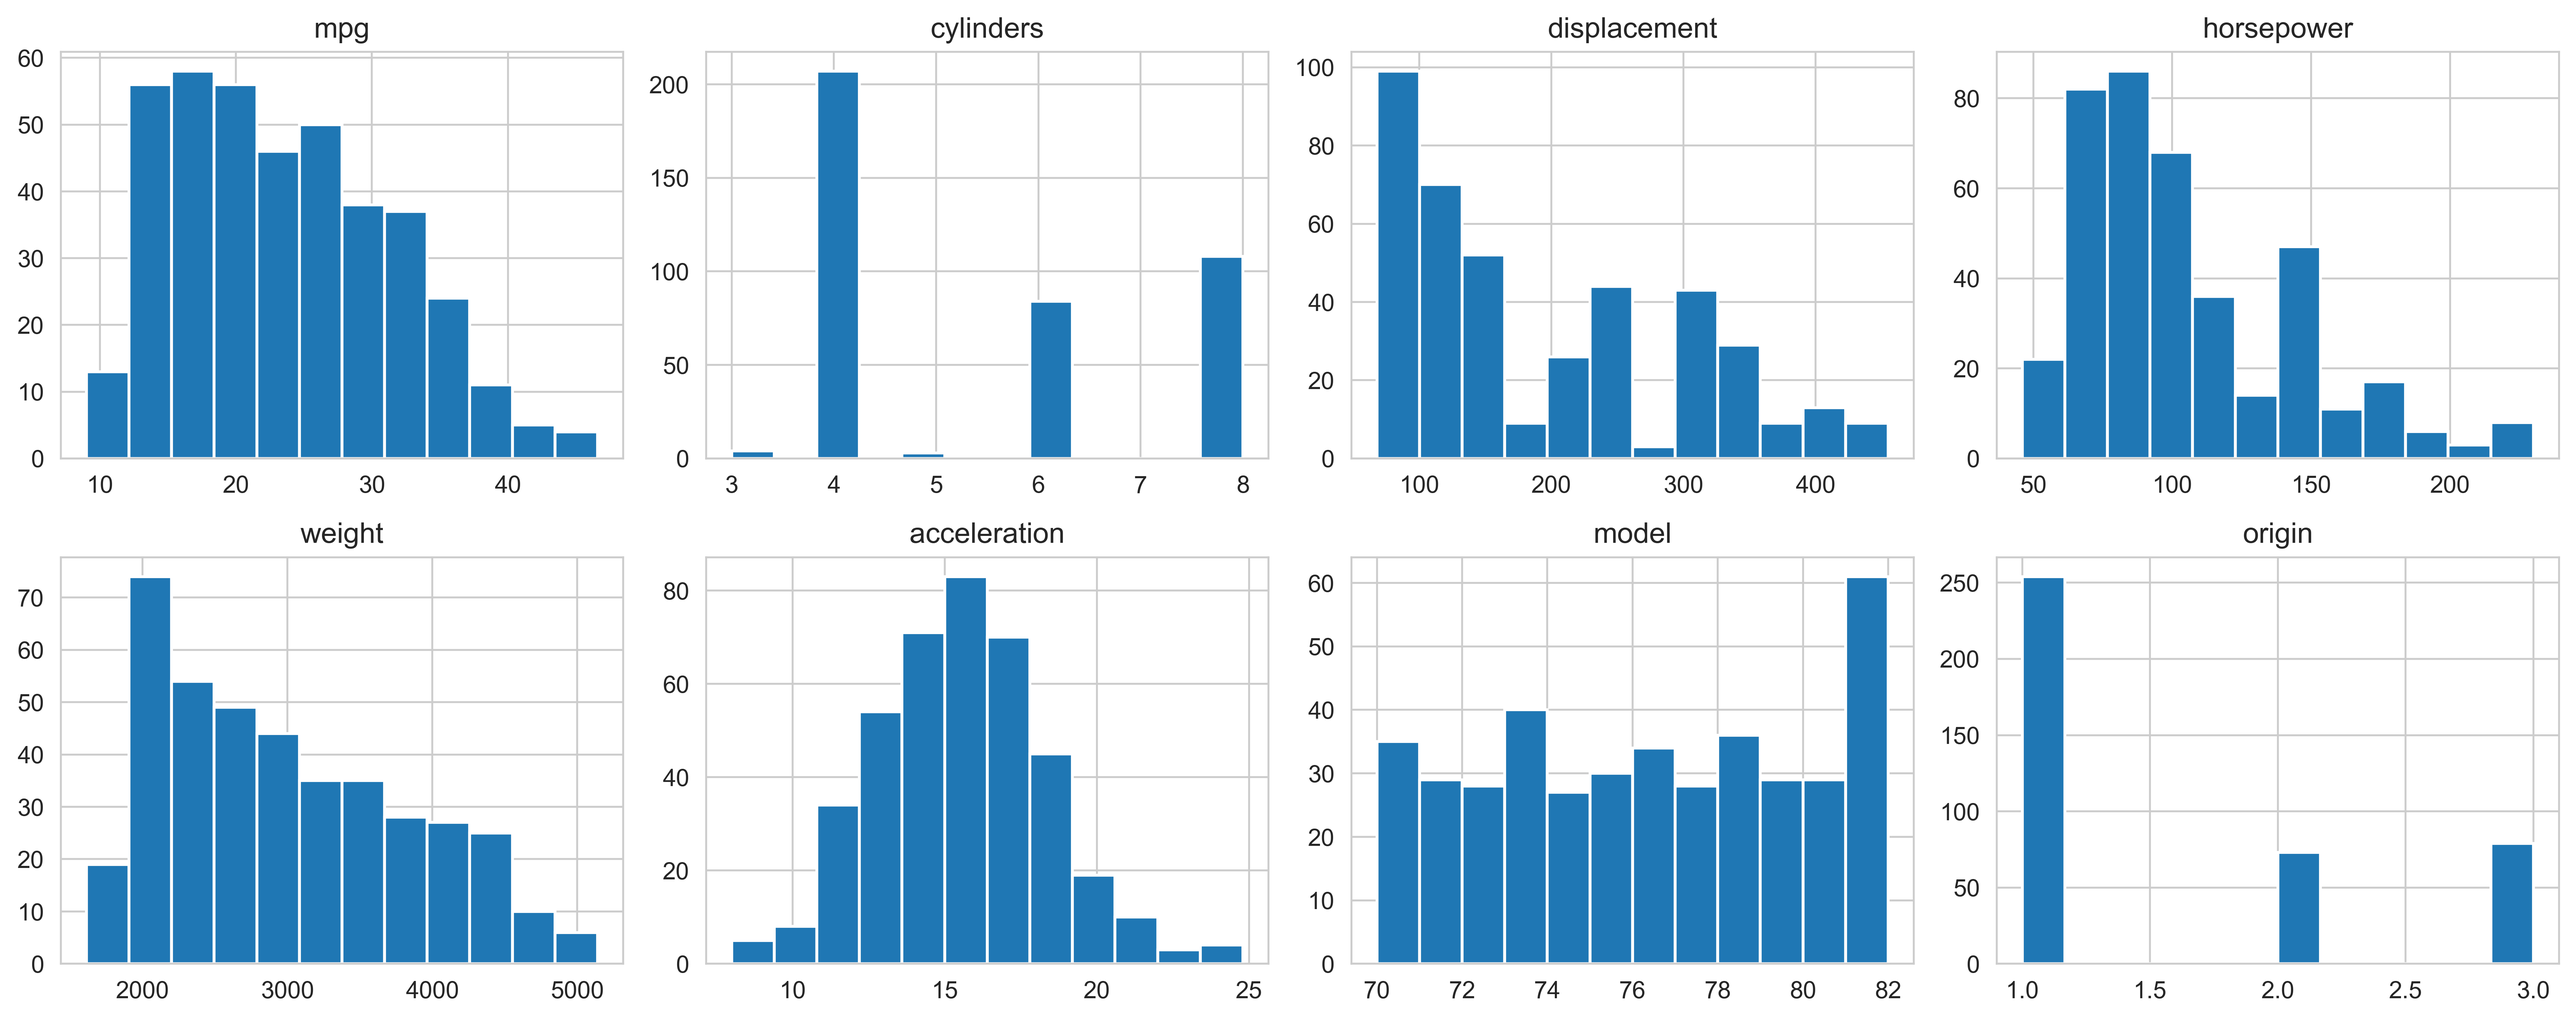
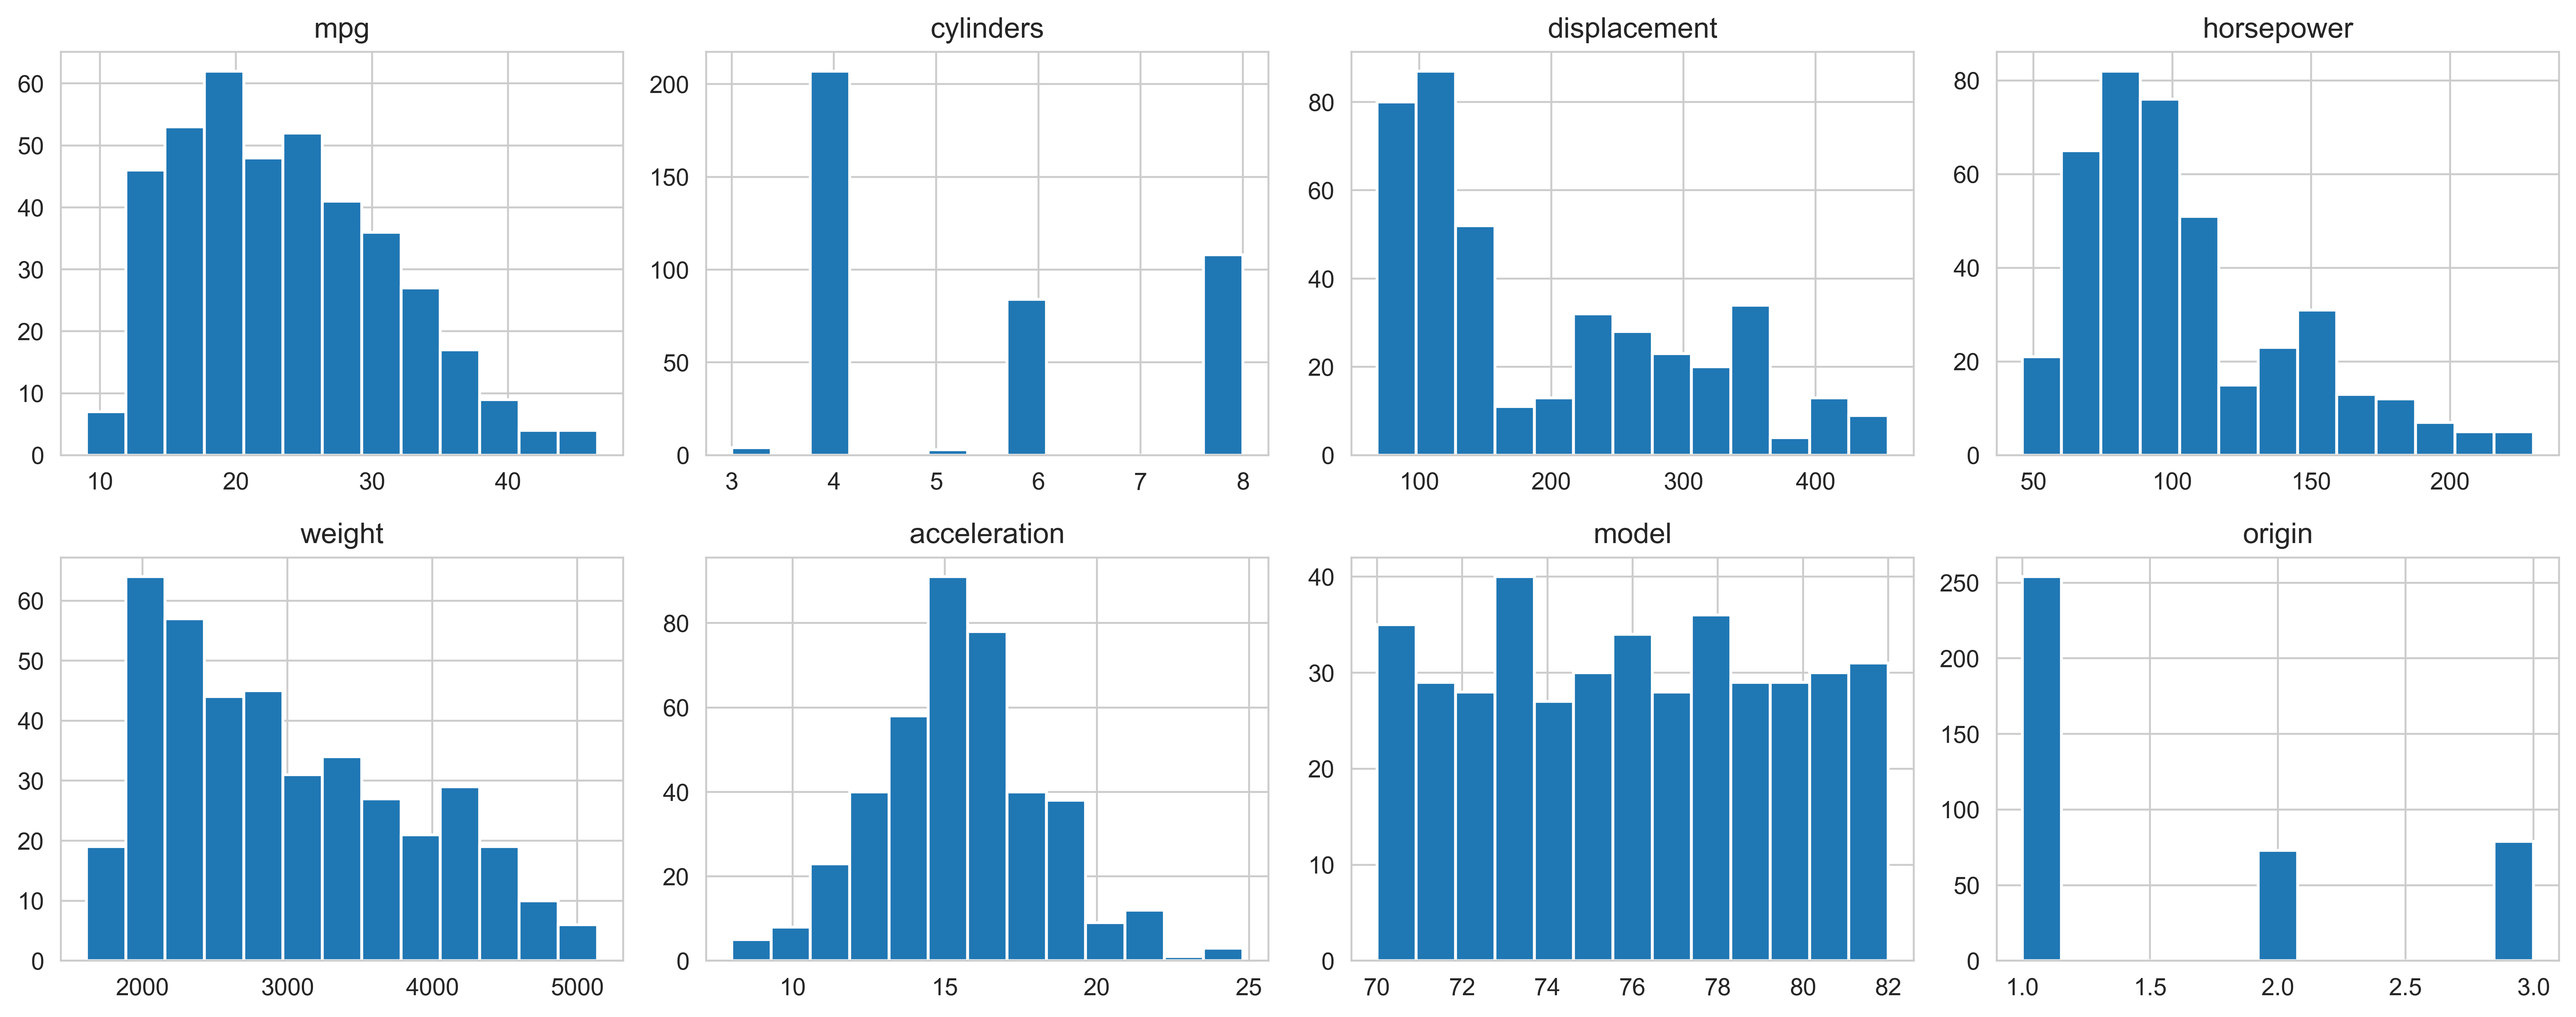
q4 bin 12 -> 13

diff --git a/Lab_3_carmpg.py b/Lab_3_carmpg.py
@@ -47,7 +47,7 @@ print(data.isna().sum())
 
 
 def q4_plot():
-    data.hist(bins=12, figsize=(15, 6), layout=(2, 4),
+    data.hist(bins=13, figsize=(15, 6), layout=(2, 4),
               linewidth=1.2, edgecolor='white')
     plt.tight_layout()
     plt.savefig('q4.png', bbox_inches='tight', dpi=500)
